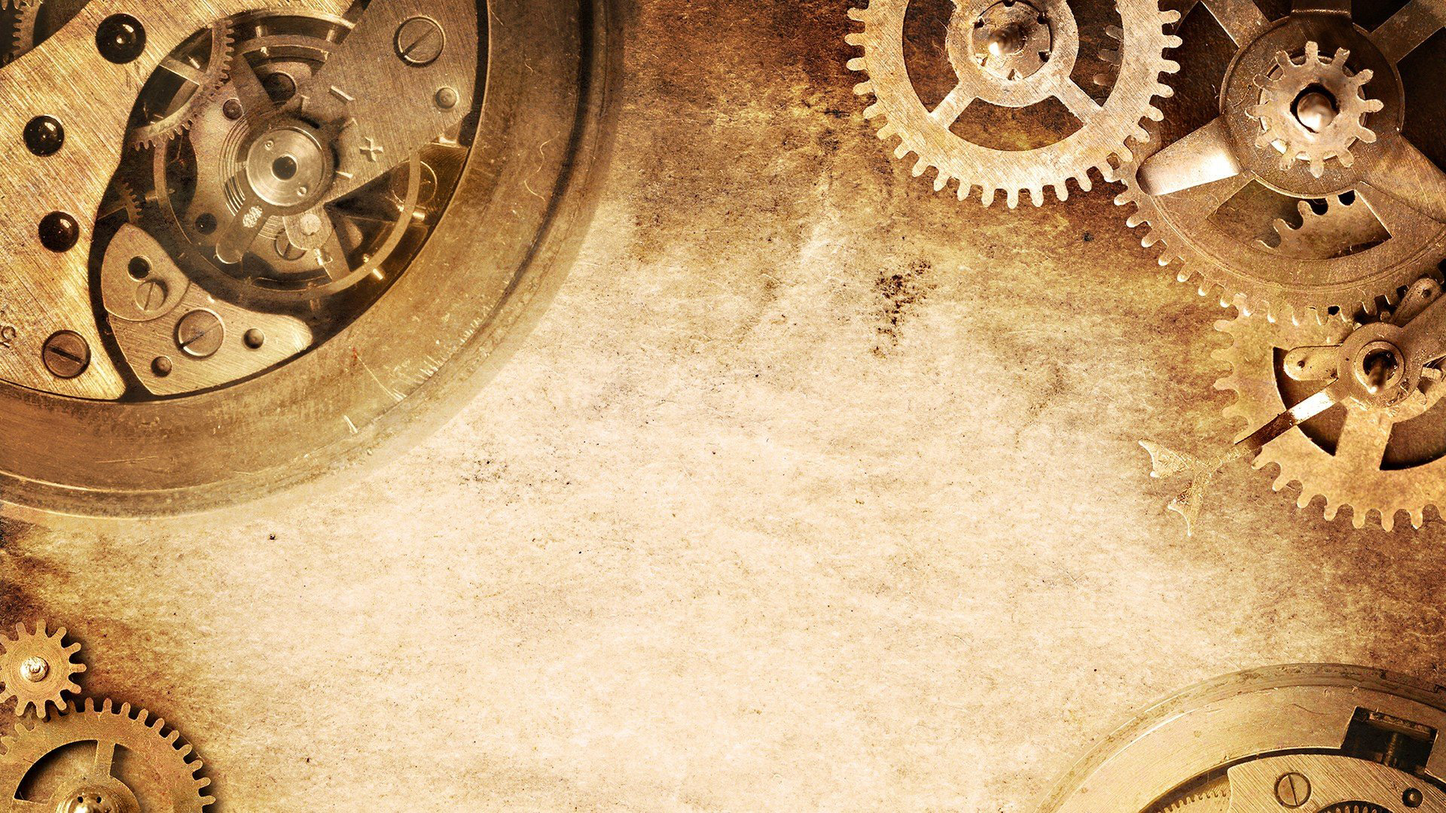
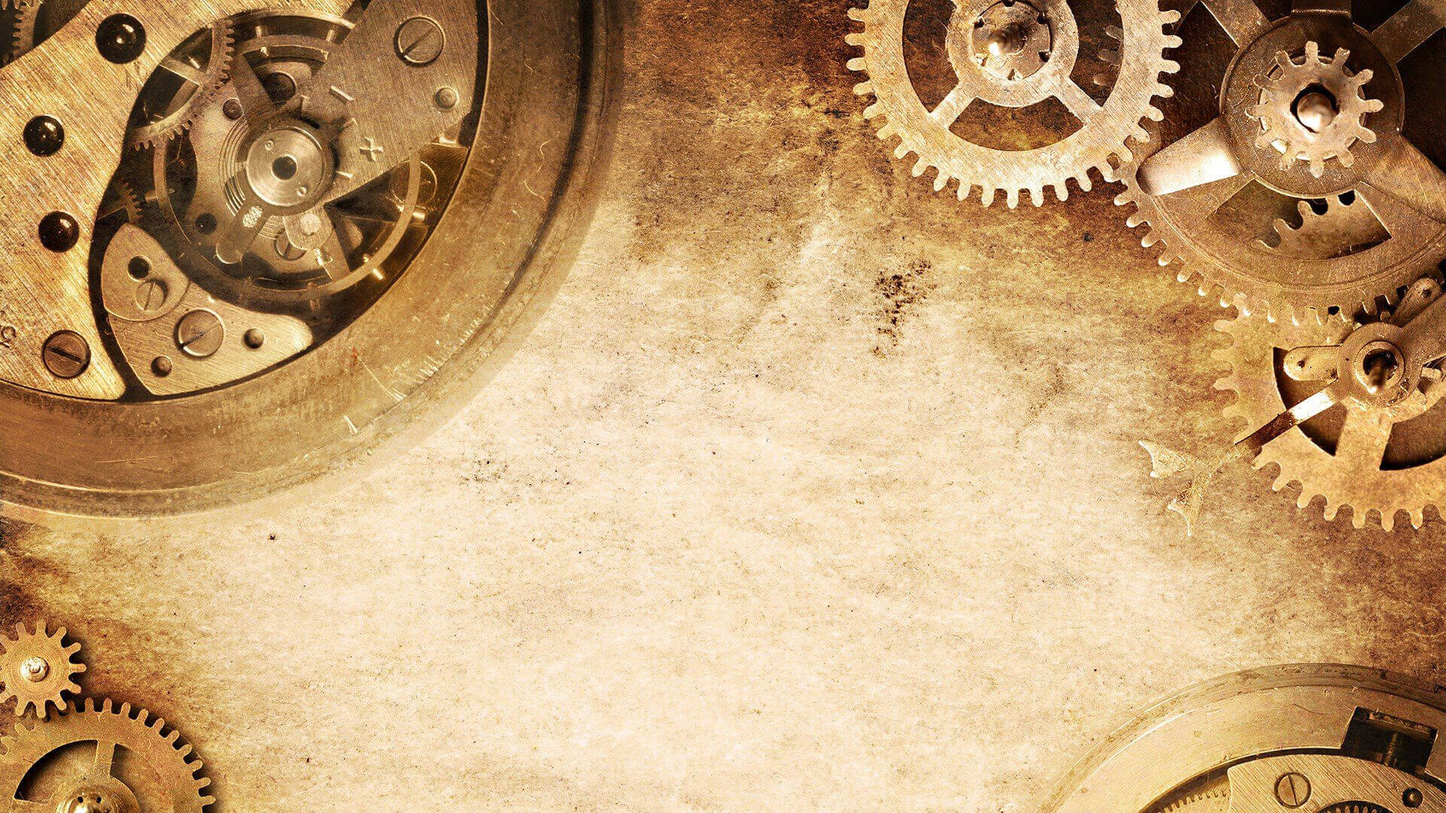
everything except image scroll done

Changed region(s): [[0.6562, 0.0, 0.6875, 0.0306]]

diff --git a/zyro/phase2.html b/zyro/phase2.html
@@ -32,6 +32,7 @@
 <div class="vbox wb_container" id="wb_main">
 	
 <div id="wb_element_instance80" class="wb_element"><ul class="hmenu"><li><a href="Home/" target="_self" title="Home">Home</a></li><li><a href="About/" target="_self" title="About">About</a></li><li><a href="Call-For-Papers/" target="_self" title="Call For Papers">Call For Papers</a></li><li class="active"><a href="Registration/" target="_self" title="Registration">Registration</a><ul><li><a href="Phase-I-Registration/" target="_self" title="Phase I Registration">Phase I Registration</a></li><li class="active"><a href="Phase-II-Paper-Submission/" target="_self" title="Phase II-Paper Submission">Phase II-Paper Submission</a></li><li><a href="Phase-III-Final-Registration/" target="_self" title="Phase III-Final Registration">Phase III-Final Registration</a></li></ul></li><li><a href="Downloads/" target="_self" title="Downloads">Downloads</a></li><li><a href="Committe/" target="_self" title="Committe">Committe</a><ul><li><a href="Organizing/" target="_self" title="Organizing">Organizing</a></li><li><a href="Student-Committe/" target="_self" title="Student Committe">Student Committe</a></li></ul></li><li><a href="Contact-Us/" target="_self" title="Contact Us">Contact Us</a></li></ul></div>
+<div id="wb_element_instance81" class="wb_element"><a class="wb_button" href="https://script.google.com/macros/s/AKfycbyCvpBKQxc2hN1x9VVN-31jMQ1PpoS6gvSm3y4OzopULjyvnZew/exec"><span>Submit Your Paper Here (In PDF Format)!!!</span></a></div>
 
 
 
@@ -39,7 +40,12 @@
 
 
 <style>
-
+h1 {
+    font-family: "Trajan Pro", Times, serif;
+    color: #ffffff;
+    text-shadow: 2px 2px 4px #000000;
+}
+</style><h1><b>PHASE - II : PAPER SUBMISSION- Not open yet</b></h1>
 </div><div id="wb_element_instance83" class="wb_element"><a class="wb_button" href="https://script.google.com/macros/s/AKfycbyCvpBKQxc2hN1x9VVN-31jMQ1PpoS6gvSm3y4OzopULjyvnZew/exec"><span>Submit Your Paper Here (In Word Format)!!!</span></a></div><div id="wb_element_instance84" class="wb_element" style=" overflow: hidden;">
 
 
@@ -49,7 +55,7 @@ h3 {
     color: #ffffff;
     text-shadow: 2px 2px 4px #000000;
 }
-</style><h3><b><br/><font color=white>The dates for paper submission are from May 8 to May 13</font></b></h3>
+</style><h3><b><br/>Please do submit your Paper in both <ins>Word And Pdf Format</ins><br/>The name of the file should be same as the Paper topic</b></h3>
 </div><div id="wb_element_instance85" class="wb_element" style=" overflow: hidden;">
 
 <style>
@@ -58,7 +64,7 @@ p {
     color: #f10000;
     text-shadow: 2px 2px 4px #000000;
 }
-</style><br/>
+</style><br/><p><marquee behavior="alternate">☛</marquee></p>
 
 
 </div><div id="wb_element_instance86" class="wb_element" style="width: 100%;">

diff --git a/zyro/css/1.css b/zyro/css/1.css
@@ -4,7 +4,7 @@
 #wb_main { height: 665px; }
 #wb_footer { background: transparent none repeat-x scroll left top; height: 1px; }
 #wb_footer { height: 1px; }
-body { background: transparent url("../gallery_gen/gear2.jpg") repeat-y scroll center top; }
+body { background: transparent url("../gallery_gen/gear3.jpg") repeat-y scroll center top; }
 .wb_sbg { background: transparent none repeat scroll center top; }
 body, .wb_sbg { min-width: 992px; min-height: 662px; }
 .root { width: 992px; height: 662px; overflow: visible; }

diff --git a/zyro/1.php b/zyro/1.php
@@ -31,7 +31,7 @@
 </div>
 <div class="vbox wb_container" id="wb_main">
 	
-<div id="wb_element_instance0" class="wb_element"><ul class="hmenu"><li class="active"><a href="Home/" target="_self" title="Home">Home</a></li><li><a href="About/" target="_self" title="About">About</a></li><li><a href="Call-For-Papers/" target="_self" title="Call For Papers">Call For Papers</a></li><li><a href="Registration/" target="_self" title="Registration">Registration</a><ul><li><a href="Phase-I-Registration/" target="_self" title="Phase I Registration">Phase I Registration</a></li><li><a href="Phase-II-Paper-Submission/" target="_self" title="Phase II-Paper Submission">Phase II-Paper Submission</a></li><li><a href="Phase-III-Final-Registration/" target="_self" title="Phase III-Final Registration">Phase III-Final Registration</a></li></ul></li><li><a href="Downloads/" target="_self" title="Downloads">Downloads</a></li><li><a href="Committe/" target="_self" title="Committe">Committe</a><ul><li><a href="Organizing/" target="_self" title="Organizing">Organizing</a></li><li><a href="Student-Committe/" target="_self" title="Student Committe">Student Committe</a></li></ul></li><li><a href="Contact-Us/" target="_self" title="Contact Us">Contact Us</a></li></ul></div><div id="wb_element_instance1" class="wb_element" style=" overflow: hidden;"><marquee behavior="scroll" direction="left"><font size="1.5">This website is created by Factura2k17 team</font></marquee>gallery/icon-ios7-location-128-ts1469120783.png</div><div id="wb_element_instance2" class="wb_element" style=" overflow: hidden;"><br/><br/><br/><br/><br/><marquee behavior="scroll" direction="up" scrollamount="3" onmouseover="this.stop()" onmouseout="this.start()" ><a href="Phase-I-Paper-Submission/"><font color="#000000" face="Tahoma"> <small></small><small></small>    <b><div id=change>Phase-I Registration is now open</div></b></font></a></marquee></div><div id="wb_element_instance3" class="wb_element"><iframe width="70" height="24" style="width: 70px; height: 24px;" scrolling="no" allowTransparency="true" src="https://www.facebook.com/plugins/like.php?locale=en_US&amp;href=https%3A%2F%2Fwww.facebook.com%2Ffactura2k16%2F%3Ffref%3Dts&amp;layout=button_count&amp;show_faces=false&amp;width=70&amp;height=24&amp;action=like&amp;colorscheme=light" frameborder="0"></iframe></div><div id="wb_element_instance4" class="wb_element"><div id="wb_element_instance5_gp_plus_one"></div>
+<div id="wb_element_instance0" class="wb_element"><ul class="hmenu"><li class="active"><a href="Home/" target="_self" title="Home">Home</a></li><li><a href="About/" target="_self" title="About">About</a></li><li><a href="Call-For-Papers/" target="_self" title="Call For Papers">Call For Papers</a></li><li><a href="Registration/" target="_self" title="Registration">Registration</a><ul><li><a href="Phase-I-Registration/" target="_self" title="Phase I Registration">Phase I Registration</a></li><li><a href="Phase-II-Paper-Submission/" target="_self" title="Phase II-Paper Submission">Phase II-Paper Submission</a></li><li><a href="Phase-III-Final-Registration/" target="_self" title="Phase III-Final Registration">Phase III-Final Registration</a></li></ul></li><li><a href="Downloads/" target="_self" title="Downloads">Downloads</a></li><li><a href="Committe/" target="_self" title="Committe">Committe</a><ul><li><a href="Organizing/" target="_self" title="Organizing">Organizing</a></li><li><a href="Student-Committe/" target="_self" title="Student Committe">Student Committe</a></li></ul></li><li><a href="Contact-Us/" target="_self" title="Contact Us">Contact Us</a></li></ul></div><div id="wb_element_instance1" class="wb_element" style=" overflow: hidden;"><marquee behavior="scroll" direction="left"><font size="1.5">This website is created by Factura2k17 team</font></marquee>gallery/icon-ios7-location-128-ts1469120783.png</div><div id="wb_element_instance2" class="wb_element" style=" overflow: hidden;"><br/><br/><br/><br/><br/><b><font color=white>Latest News</font></b><br><marquee behavior="scroll" direction="up" scrollamount="2" onmouseover="this.stop()" onmouseout="this.start()" ><div id=change><a href="Phase-I-Paper-Submission/"><font color="#000000" face="Tahoma"> <small></small><small></small>    <b>Phase-I Registration<br/>is now open</div></b></font></a></marquee></div><div id="wb_element_instance3" class="wb_element"><iframe width="70" height="24" style="width: 70px; height: 24px;" scrolling="no" allowTransparency="true" src="https://www.facebook.com/plugins/like.php?locale=en_US&amp;href=https%3A%2F%2Fwww.facebook.com%2Ffactura2k16%2F%3Ffref%3Dts&amp;layout=button_count&amp;show_faces=false&amp;width=70&amp;height=24&amp;action=like&amp;colorscheme=light" frameborder="0"></iframe></div><div id="wb_element_instance4" class="wb_element"><div id="wb_element_instance5_gp_plus_one"></div>
 <script type="text/javascript">
 	window.___gcfg = {parsetags: 'explicit'};
 </script><script src="https://apis.google.com/js/platform.js" type="text/javascript"></script><script type="text/javascript">
@@ -81,5 +81,39 @@
 					footer.height(1);
 				}
 			});
-			</script></div></div><div class="wb_sbg"></div></div></body>
+			</script></div></div><div class="wb_sbg"></div></div>
+
+<script type="text/javascript">
+	var today = new Date();
+	var year = today.getFullYear();
+	var month = today.getMonth();
+	var day = today.getDate();
+	if(year >= 2017 && month >=5 && day >=25)
+	{
+		document.getElementById('change').innerHTML = 'Everything is closed';
+	}
+	
+	else if( year >=2017 && month ==5 && day >=6)
+	{
+		document.getElementById('change').innerHTML = 'Registration is now closed';
+	}
+	if( year >=2017 && month ==5 && day >=8)
+	{
+		document.getElementById('change').innerHTML = '<a href="Phase-II-Paper-Submission/"><font color="#000000" face="Tahoma"> <small></small><small></small>    <b>Phase-II Registration<br/>is now open';
+	}
+	if( year >=2017 && month ==5 && day >13)
+	{
+		document.getElementById('change').innerHTML = 'Paper submission is now closed';
+	}
+	if( year >=2017 && month ==5 && day >=20)
+	{
+		document.getElementById('change').innerHTML = '<a href="Phase-III-Final-Registration/"><font color="#000000" face="Tahoma"> <small></small><small></small>    <b>Phase-III Registration<br/>is now open';
+	}
+	if( year >=2017 && month ==5 && day >25)
+	{
+		document.getElementById('change').innerHTML = 'Final Registration is closed';
+	}
+
+</script>
+</body>
 </html>

diff --git a/zyro/11.php b/zyro/11.php
@@ -31,7 +31,7 @@
 </div>
 <div class="vbox wb_container" id="wb_main">
 	
-<div id="wb_element_instance88" class="wb_element"><ul class="hmenu"><li><a href="Home/" target="_self" title="Home">Home</a></li><li><a href="About/" target="_self" title="About">About</a></li><li><a href="Call-For-Papers/" target="_self" title="Call For Papers">Call For Papers</a></li><li class="active"><a href="Registration/" target="_self" title="Registration">Registration</a><ul><li><a href="Phase-I-Registration/" target="_self" title="Phase I Registration">Phase I Registration</a></li><li><a href="Phase-II-Paper-Submission/" target="_self" title="Phase II-Paper Submission">Phase II-Paper Submission</a></li><li class="active"><a href="Phase-III-Final-Registration/" target="_self" title="Phase III-Final Registration">Phase III-Final Registration</a></li></ul></li><li><a href="Downloads/" target="_self" title="Downloads">Downloads</a></li><li><a href="Committe/" target="_self" title="Committe">Committe</a><ul><li><a href="Organizing/" target="_self" title="Organizing">Organizing</a></li><li><a href="Student-Committe/" target="_self" title="Student Committe">Student Committe</a></li></ul></li><li><a href="Contact-Us/" target="_self" title="Contact Us">Contact Us</a></li></ul></div><div id="wb_element_instance89" class="wb_element" style=" overflow: hidden;"><iframe src="https://docs.google.com/forms/d/e/1FAIpQLSdeL2C3Y-xSwpEVpD_MiUJncPRhU_lccAPfWT6sqcdO8vbx4A/viewform?embedded=true" width="760" height="1050" frameborder="1" marginheight="0" marginwidth="0">Loading...</iframe></div><div id="wb_element_instance90" class="wb_element" style=" overflow: hidden;">
+<div id="wb_element_instance88" class="wb_element"><ul class="hmenu"><li><a href="Home/" target="_self" title="Home">Home</a></li><li><a href="About/" target="_self" title="About">About</a></li><li><a href="Call-For-Papers/" target="_self" title="Call For Papers">Call For Papers</a></li><li class="active"><a href="Registration/" target="_self" title="Registration">Registration</a><ul><li><a href="Phase-I-Registration/" target="_self" title="Phase I Registration">Phase I Registration</a></li><li><a href="Phase-II-Paper-Submission/" target="_self" title="Phase II-Paper Submission">Phase II-Paper Submission</a></li><li class="active"><a href="Phase-III-Final-Registration/" target="_self" title="Phase III-Final Registration">Phase III-Final Registration</a></li></ul></li><li><a href="Downloads/" target="_self" title="Downloads">Downloads</a></li><li><a href="Committe/" target="_self" title="Committe">Committe</a><ul><li><a href="Organizing/" target="_self" title="Organizing">Organizing</a></li><li><a href="Student-Committe/" target="_self" title="Student Committe">Student Committe</a></li></ul></li><li><a href="Contact-Us/" target="_self" title="Contact Us">Contact Us</a></li></ul></div><div id="wb_element_instance89" class="wb_element" style=" overflow: hidden;"><!--iframe src="https://docs.google.com/forms/d/e/1FAIpQLSdeL2C3Y-xSwpEVpD_MiUJncPRhU_lccAPfWT6sqcdO8vbx4A/viewform?embedded=true" width="760" height="1050" frameborder="1" marginheight="0" marginwidth="0">Loading...</iframe></div><div id="wb_element_instance90" class="wb_element" style=" overflow: hidden;"-->
 
 
 <style>
@@ -40,7 +40,7 @@ h1 {
     color: #f10000;
     text-shadow: 2px 2px 4px #000000;
 }
-</style><h1><b><font color=white>PHASE - III : FINAL SUBMISSION</font></b></h1>
+</style><h1><b><font color=white>PHASE - III : FINAL SUBMISSION -Not open yet</font></b></h1>
 </div><div id="wb_element_instance91" class="wb_element" style="width: 100%;">
 			<?php
 				global $show_comments;

diff --git a/zyro/3.php b/zyro/3.php
@@ -42,9 +42,9 @@ h1 {
 }
 </style><h1><b><font color="white">CONTACT US</font></b></h1>
 </div><div id="wb_element_instance23" class="wb_element" style=" overflow: hidden;"><p style="font-family: SF Fedora Titles, SF Fedora Titles, SF Fedora Titles; font-size: 13pt; line-height: normal; font-weight: bold; font-variant: normal; color: #ffffff; text-shadow: 1px 1px 2px #000000; text-decoration: blink;"><b>NSS College of Engineering, NSS College Rd</b>, Akathethara, Kerala, IN-678008<br><br>
-CONTACT: <br><b>Dr. K.G Jolly </b><br>Professor,<br>Dept. of Mechanical Engg.<br>
-Mob:09447924921<br>
-email: info@factura2k16.in</p></div><div id="wb_element_instance24" class="wb_element"><img alt="ngngng copy" src="gallery_gen/8d0e9980c245a1d517da5bb8f41447d8_320x396.png"></div><div id="wb_element_instance25" class="wb_element"><img alt="icon-ios7-location-128" src="gallery_gen/ed5edb88e013e635b881ec92b46e0284_30x30.png"></div><div id="wb_element_instance26" class="wb_element" style=" overflow: hidden;"><p style="font-family: SF Fedora Titles, SF Fedora Titles, SF Fedora Titles; font-size: 24pt; line-height: normal; font-weight: bold; font-variant: normal; color: #3ccec2; text-shadow: 2px 2px 4px #000000; text-decoration: blink;"><b>How To Reach?</b></p><p><a href="http://www.way2tutorial.com/html/html_marquee_text.php"></a></p>
+CONTACT: <br><b> R. Sudir Kumar</b><br>Professor,<br>Dept. of Mechanical Engg.<br>
+Mob:9446434447<br>
+email: factura2k16@gmail.com</p></div><div id="wb_element_instance24" class="wb_element"><img alt="ngngng copy" src="gallery_gen/8d0e9980c245a1d517da5bb8f41447d8_320x396.png"></div><div id="wb_element_instance25" class="wb_element"><img alt="icon-ios7-location-128" src="gallery_gen/ed5edb88e013e635b881ec92b46e0284_30x30.png"></div><div id="wb_element_instance26" class="wb_element" style=" overflow: hidden;"><p style="font-family: SF Fedora Titles, SF Fedora Titles, SF Fedora Titles; font-size: 24pt; line-height: normal; font-weight: bold; font-variant: normal; color: #3ccec2; text-shadow: 2px 2px 4px #000000; text-decoration: blink;"><b>How To Reach?</b></p><p><a href="http://www.way2tutorial.com/html/html_marquee_text.php"></a></p>
 <!-- Marquee Slide Stop text by Way2Tutorial.com --></div><div id="wb_element_instance27" class="wb_element" style=" overflow: hidden;"><font size="4.5" face="Georgia" add this: color="#000000"> *4kms from Palakkad Junction Railway Station. <br> *9kms from Palakkad Town <br>
 *50kms from Coimbatore International Airport.
 </font></div><div id="wb_element_instance28" class="wb_element" style=" overflow: hidden;"><a href="https://www.google.co.in/maps/dir//NSS+College+of+Engineering,+NSS+College+Rd,+Athira+Nagar,+Akathethara,+Kerala+678008/@10.8234578,76.64241,21z/data=!4m16!1m7!3m6!1s0x3ba86fd51d8e1faf:0x4e3d7915b3621961!2sNSS+College+of+Engineering!3b1!8m2!3d10.8234479!4d76.6425669!4m7!1m0!1m5!1m1!1s0x3ba86fd51d8e1faf:0x4e3d7915b3621961!2m2!1d76.6425669!2d10.8234479?hl=en">;<p style="font-family: Trajan Pro, Trajan Pro, Trajan Pro; font-size:24 pt; line-height: normal; font-weight: bold; font-variant: normal; color: #ffff00; text-shadow: 2px 2px 4px #000000; text-decoration: blink;"><b>Get Directions</b></p></a></div><div id="wb_element_instance29" class="wb_element" style="width: 100%;">

diff --git a/zyro/4.php b/zyro/4.php
@@ -74,15 +74,15 @@ tr:nth-child(even) {
 </style><font color="white"><table><tr><th><font color="black"><font color=white>IMPORTANT DATES</font></font></th>
     <th> </th>
   </tr><tr><td><font color="black">Submission of Abstract</font></td>
-    <td><font color="black">August 7, 2016</font></td>
+    <td><font color="black">May 1 to May 6,2017</font></td>
   </tr><tr><td>Submission of Paper</td>
-    <td>August 12, 2016</td>
+    <td>May 8 to May 13, 2017</td>
 
   </tr><tr><td><font color="black">Acceptance of Paper</font></td>
-    <td><font color="black">August 16, 2016</font></td>
+    <td><font color="black">May 20 to May 24,2017</font></td>
 
   </tr><tr><td>Conference Dates</td>
-    <td>August 26-27</td>
+    <td>June 9th & 10th</td>
 
   </tr></table></table></div><div id="wb_element_instance35" class="wb_element" style=" overflow: hidden;">
 
@@ -141,19 +141,18 @@ tr:nth-child(even) {
     
   </tr><tr><th>Registration fees includes Conference kit, Lunch and Tea.</th>
 </tr><tr><th>
-After the acceptance of the Abstract soft copy of the Paper in the given format should be send to factura2k16@gmail.com and the DD taken in favour of "FACTURA" payable at Palakkad should be sent to the correspondence address with duly filled application form via speed post or courier.
+After the acceptance of the Abstract soft copy of the Paper in the given format , original paper should be send to factura2k16@gmail.com and the DD taken in favour of "FACTURA" payable at Palakkad should be sent to the correspondence address with duly filled application form via speed post or courier.
+</th>
+</tr><tr>
+</tr><tr><th>
+
+</th>
+</tr>
+<tr><th>* Format for the Paper is available in the DOWNLOAD menu</th></tr><tr><th>
+*Registration form will be available in the website from March 20.
 </th>
 </tr><tr><th>
-* Don't send the softcopy of the paper to info@factura2k16.in.
-</th>
-</tr><tr><th>
-* Format for the Paper is available in the DOWNLOAD menu
-</th>
-</tr><tr><th>
-*Application format will be available in the website from 2nd august.
-</th>
-</tr><tr><th>
-Also pay viaFACTURAAcc No.: 6345789408Indian Bank, Branch: Akathethara, Palakkad Dist.-678 008IFS CODE : IDIB000A007
+Also pay via FACTURA Acc No.: 6345789408Indian Bank, Branch: Akathethara, Palakkad Dist.-678 008IFS CODE : IDIB000A007
 </th>
 </tr></table></div><div id="wb_element_instance37" class="wb_element" style="width: 100%;">
 			<?php

diff --git a/zyro/5.php b/zyro/5.php
@@ -53,7 +53,7 @@ h2 {
 }
 </style>
 
-	<iframe src="https://docs.google.com/forms/d/e/1FAIpQLScy0Os6yvbmCPOld_E9CqpNT6ILj2e4kLR-3pYaJQfYFfKQew/viewform?embedded=true" width="100%" height="500" frameborder="0" marginheight="0" marginwidth="0">Loading...</iframe>Loading...</iframe>
+	<div id=change><iframe src="https://docs.google.com/forms/d/e/1FAIpQLScy0Os6yvbmCPOld_E9CqpNT6ILj2e4kLR-3pYaJQfYFfKQew/viewform?embedded=true" width="100%" height="500" frameborder="0" marginheight="0" marginwidth="0">Loading...</iframe>Loading...</iframe></div>
 			<?php
 				global $show_comments;
 				if (isset($show_comments) && $show_comments) {
@@ -91,5 +91,18 @@ h2 {
 					footer.height(1);
 				}
 			});
-			</script></div></div><div class="wb_sbg"></div></div></body>
+			</script></div></div><div class="wb_sbg"></div></div>
+			<script type="text/javascript">
+
+			var today = new Date();
+			var year = today.getFullYear();
+			var month = today.getMonth();
+			var day = today.getDate();
+				if( year >=2017 && month >=5 && day >6)
+	{
+		document.getElementById('change').innerHTML = '<font color=white><h1>This section is closed</h1></font>';
+	}
+			</script>
+
+			</body>
 </html>
